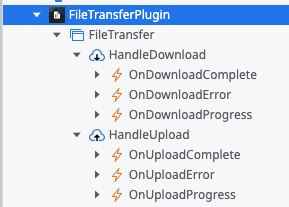
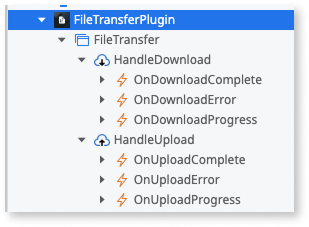
TK-16929 File Transfer Plugin errors

Changed region(s): [[0.0, 0.0, 1.0, 1.0], [0.2491, 0.2319, 0.7163, 0.3768], [0.3114, 0.4058, 0.3426, 0.4638]]

diff --git a/src/integration-with-systems/mobile-plugins/file-transfer-plugin/intro.md b/src/integration-with-systems/mobile-plugins/file-transfer-plugin/intro.md
@@ -1,11 +1,15 @@
 ---
-summary: Explore advanced file transfer capabilities in mobile and Reactive Web Apps with the File Transfer Plugin in OutSystems 11 (O11).
-tags: plugin implementation, progressive web apps, file management, background processing, installation guides
+summary: Explore advanced file transfer capabilities in mobile and Reactive Web Apps with the File transfer plugin in OutSystems 11 (O11).
+tags:
+  - Cordova
+  - Events
+  - Mobile app
+  - Plugins
 locale: en-us
 guid: 0bb071a1-f602-4d6b-9b4e-ca0c9c044c06
 app_type: mobile apps
 platform-version: o11
-figma:
+figma: https://www.figma.com/design/jSgZ0l0unYdVymLxKZasno/Integration-with-external-systems?node-id=4265-4977
 audience:
   - Developer
   - Front-end developer
@@ -17,9 +21,10 @@ coverage-type:
   - remember
 topic:
   - using-cordova-plugins
+isautopublish: true
 ---
 
-# File Transfer Plugin
+# File transfer plugin
 
 <div class="info" markdown="1">
 
@@ -27,9 +32,9 @@ Applies to Mobile Apps and Reactive Web Apps only.
 
 </div>
 
-The File Transfer Plugin lets you download and upload files in your Mobile App or, in the case of a Progressive Web App (PWA), from your device. The plugin provides advanced file transfer that runs in the background, and, in the case of a Mobile App, continues even when the user closes or suspends the app.
+The File transfer plugin lets you download and upload files in your Mobile App or, in the case of a Progressive Web App (PWA), from your device. The plugin provides advanced file transfer that runs in the background, and, in the case of a Mobile App, continues even when the user closes or suspends the app.
 
-The File Transfer Plugin shows progress updates for large transfers, such as videos, music, or images.
+The File transfer plugin shows progress updates for large transfers, such as videos, music, or images.
 
 <div class="info" markdown="1">
 
@@ -39,17 +44,17 @@ See [Adding plugins](../intro.md#adding-plugins) to learn how to install and ref
 
 The plugin's behavior differs between Mobile Apps and PWAs. These differences are further explained in the next section.
 
-## Using the File Transfer Plugin
+## Using the File transfer plugin
 
-To add the File Transfer Plugin to your app, follow these steps:
+To add the File transfer plugin to your app, follow these steps:
 
 1. Install the **FileTransfer** Plugin and reference it in your app. For detailed instructions, refer to [Installing a plugin and adding a public element to your app](../intro.md#installing-a-plugin-and-adding-a-public-element-to-your-app).
 
 1. Open ODC Studio.
 
-1. Navigate to **Logic** > **Client Actions**, then select the File Transfer Plugin and use the actions in your logic.
+1. Navigate to **Logic** > **Client Actions**, then select the File transfer plugin and use the actions in your logic.
 
-    ![Shows how to create and use the File Transfer Plugin from the ODC Studio Logic tab](images/create-and-use-filetransfer-plugin-in-logic-tab-odcs.png "Using the File Transfer Plugin in ODC Studio Logic Tab")
+    ![Shows how to create and use the File transfer plugin from the ODC Studio Logic tab](images/create-and-use-filetransfer-plugin-in-logic-tab-odcs.png "Using the File transfer plugin in ODC Studio Logic Tab")
 
 It's also possible to know the progress, completion and error of your download/upload task. To subscribe and access these events, you need to use the plugin's **HandleDownload** and **HandleUpload** UI Blocks.
 
@@ -59,21 +64,21 @@ To add and use these UI blocks to your app, follow these steps:
 
     If you wish to handle these events across the whole app, you can also add the UI Blocks to your **Interface** > **Elements** > **UI Flows** > **Common** > **Layout**.
 
-    ![Shows how to add and use the File Transfer Plugin from the ODC Studio Interface tab](images/create-and-use-filetransfer-plugin-in-interface-tab-odcs.png "Using the File Transfer Plugin in ODC Studio Interface Tab")
+    ![Shows how to add and use the File transfer plugin from the ODC Studio Interface tab](images/create-and-use-filetransfer-plugin-in-interface-tab-odcs.png "Using the File transfer plugin in ODC Studio Interface Tab")
 
-    ![Shows how to add and use the File Transfer plugin from the ODC Studio Interface tab](images/filetransfer-handledown-in-widget-tree.png "Using the File Transfer Plugin in ODC Studio Interface Tab")
+    ![Shows how to add and use the File transfer plugin from the ODC Studio Interface tab](images/filetransfer-handledown-in-widget-tree-odcs.png "Using the File transfer plugin in ODC Studio Interface Tab")
 
 1. Set the handlers for **OnDownloadComplete**, **OnDownloadError**, **OnDownloadProgress**, **OnUploadComplete**, **OnUploadError**, and on **OnUploadProgress** events.
 
     In these event handlers, you can define your own logic and what to do with the event data. For example, setting the progress on a **ProgressBar** widget for **OnUploadProgress** and **OnDownloadProgress** events.
 
-    ![Shows the new handlers for HandleDownload events](images/add-handlers-to-events.png "Settings Handlers for HandleDownload events.")
+    ![Shows the new handlers for HandleDownload events](images/add-handlers-to-events-odcs.png "Settings Handlers for HandleDownload events.")
 
 ## Progressive Web Apps vs Mobile Apps
 
-In a Mobile App, the File Transfer Plugin uses the [File Plugin](../file-plugin/intro.md) to save and manage the downloaded files inside the app's sandboxed file system, as well as upload files from it. This means it's possible to choose where to save a downloaded file given a path, as well as upload a file from its path. As of now, the File Plugin is not PWA compatible and as so, it's not possible to access and manage a file system in a PWA or browser context.
+In a Mobile App, the File transfer plugin uses the [File Plugin](../file-plugin/intro.md) to save and manage the downloaded files inside the app's sandboxed file system, as well as upload files from it. This means it's possible to choose where to save a downloaded file given a path, as well as upload a file from its path. As of now, the File Plugin is not PWA compatible and as so, it's not possible to access and manage a file system in a PWA or browser context.
 
-In the following sections, it's explained how the PWA implementation of the File Transfer Plugin works around this limitation.
+In the following sections, it's explained how the PWA implementation of the File transfer plugin works around this limitation.
 
 ### Download
 
@@ -101,11 +106,11 @@ Install [File Demo App](https://www.outsystems.com/forge/component-overview/1001
 
 ## Reference
 
-The File Transfer Plugin uses a Cordova plugin, and for more information refer to  [cordova-plugin-file-transfer](https://github.com/apache/cordova-plugin-file-transfer).
+The File transfer plugin uses a Cordova plugin, and for more information refer to  [cordova-plugin-file-transfer](https://github.com/apache/cordova-plugin-file-transfer).
 
 ### Actions
 
-Here is the reference for the actions you can use from the File Transfer Plugin, available in **Logic** > **Client Actions** > **FileTransferPlugin**.
+Here is the reference for the actions you can use from the File transfer plugin, available in **Logic** > **Client Actions** > **FileTransferPlugin**.
 
 Starting on version 3.0.0, all client actions were deprecated and replaced with new ones. Some input and output parameters also changed.
 
@@ -127,7 +132,7 @@ The following table contains the reference of the client actions that were depre
 
 ### Events
 
-Here is the reference for the events you can use from the File Transfer Plugin, available in **UI Flows** > **FileTransferPlugin** > **FileTransfer**.
+Here is the reference for the events you can use from the File transfer plugin, available in **UI Flows** > **FileTransferPlugin** > **FileTransfer**.
 
 | Event | Block | Description |
 | ---------------------- | ------------------ | ------------------ |
@@ -148,7 +153,7 @@ Here is the reference for the events you can use from the File Transfer Plugin, 
 | Total | Integer | The total size, in bytes, of the data being transferred. |
 | LengthComputable | Boolean | Indicates if the ratio between **Loaded** and **Total** is calculable. |
 
-#### FileTransferError
+#### `FileTransferError`
 
 | Parameter | Data Type | Description |
 | :-------- | :---------- | :------------ |
@@ -176,7 +181,7 @@ List of predefined error codes for lower versions of the plugin:
 * 4 = `ABORT_ERR`
 * 5 = `NOT_MODIFIED_ERR`
 
-#### FileDownloadResult
+#### `FileDownloadResult`
 
 | Parameter | Data Type | Description |
 | :-------- | :---------- | :------------ |
@@ -187,7 +192,7 @@ List of predefined error codes for lower versions of the plugin:
 | **(Removed in version 3.0.0)** filesystems | Text | Device-absolute-file-paths for the downloaded data. The goal of this parameter was to maintain backwards compatibility for older versions of the plugin. Fore more information check [here](https://github.com/OutSystems/cordova-plugin-file-transfer?tab=readme-ov-file#backwards-compatibility-notes). |
 | nativeURL | Text | Native URL path to the stored file. |
 
-#### FileUploadResult
+#### `FileUploadResult`
 
 | Parameter | Data Type | Description |
 | :-------- | :---------- | :------------ |
@@ -196,23 +201,9 @@ List of predefined error codes for lower versions of the plugin:
 | response | Text | Response received from the server. |
 | headers | Text | HTTP headers used in the upload. |
 
-### Errors
+### Error codes
 
-Starting with version 3.0.0 of the plugin, specific errors are returned on native platforms and PWAs.
-
-| Error code | Platform(s) | Message |
-| ------------------ | ----------------- | ------------------------------------------------------------------------------------------------------------------------- |
-| OS-PLUG-FLTR-0001 | Android, iOS, PWA | Cordova isn't defined. |
-| OS-PLUG-FLTR-0002 | Android, iOS | The app is running with an old version of the plugin. Please create a new mobile package. |
-| OS-PLUG-FLTR-0003 | Android, iOS | The File Transfer plugin is not loaded. Make sure the mobile package is valid. |
-| OS-PLUG-FLTR-0004 | Android, iOS | The method's input parameters aren't valid. |
-| OS-PLUG-FLTR-0005 | Android, iOS, PWA | Invalid server URL was provided - &lt;URL&gt; or URL to connect to is either null or empty. |
-| OS-PLUG-FLTR-0006 | Android | Unable to perform operation, user denied permission request. |
-| OS-PLUG-FLTR-0007 | Android, iOS | Operation failed because file does not exist. |
-| OS-PLUG-FLTR-0008 | Android, iOS, PWA | Failed to connect to server. |
-| OS-PLUG-FLTR-0009 | Android, iOS | The server responded with HTTP 304 – Not Modified. If you want to avoid this, check your headers related to HTTP caching. |
-| OS-PLUG-FLTR-0010 | Android, iOS, PWA | HTTP error: &lt;responseCode&gt; - &lt;message&gt; |
-| OS-PLUG-FLTR-0011 | Android, iOS | The operation failed with an error - &lt;detailedError&gt; |
+For a complete list of mobile plugin errors, their causes, impact, and recommended solutions, refer to the [Mobile Plugins errors page](https://www.outsystems.com/tk/redirect?g=8ae41e18-fa7d-4cbe-a223-226a14abd8bf).
 
 ## Known issues and limitations
 